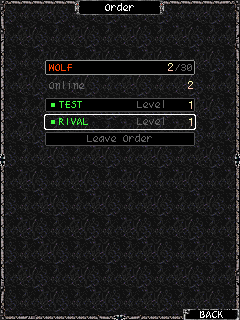
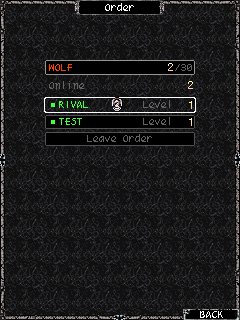
MP orders: leader emblem (the founder, then the oldest member)
Claude-Session: https://claude.ai/code/session_01Pra1epgAaSGGotKkAjmf4H

Changed region(s): [[0.175, 0.2812, 0.8167, 0.4062]]

diff --git a/pyport/pow_mp/mp_canvas_order.py b/pyport/pow_mp/mp_canvas_order.py
@@ -49,7 +49,7 @@ def install():
 
 class OrderMixin:
     order_name = ""             # "" = in no order
-    order_rows = []             # [(UserID, display name, level, online)]
+    order_rows = []             # [(UserID, display name, level, online, leader)]
     order_cursor = 0            # members then "Leave Order"
     order_top = 0               # first row shown
     order_creating = True       # 32: create (True) or join (False)
@@ -78,7 +78,8 @@ class OrderMixin:
             name = answer.read_string(8)
             level = answer.read_s16() & 0xFFFF
             online = answer.read_s8() != 0
-            rows.append((uid, name, level, online))
+            leader = answer.read_s8() != 0
+            rows.append((uid, name, level, online, leader))
         MpCanvas.order_rows = rows
         MpCanvas.order_count = count
         MpCanvas.order_cursor = min(MpCanvas.order_cursor, count)
@@ -146,12 +147,14 @@ class OrderMixin:
                 self.draw_text_colored(MpCanvas.screen_g, TEXTS[3], MpCanvas.center_x, y + 1, 1,
                                        0xFFFFFF if on else 0x646464)
                 continue
-            _uid, name, level, online = MpCanvas.order_rows[i]
+            _uid, name, level, online, leader = MpCanvas.order_rows[i]
             self.draw_box(MpCanvas.screen_g, x, y, 150, 14, 3 if on else 2)
             Draw.fill_rect(MpCanvas.screen_g, x + 6, y + 5, 4, 4, 0x41FF41 if online else 0x525152)
             color = 0x41FF41 if online else (0xFFFFFF if on else 0x646464)
             self.draw_text_colored(MpCanvas.screen_g, name, x + 14, y + 1, 0, color)
-            self.draw_text_colored(MpCanvas.screen_g, Consts.texts[27], x + 92, y + 1, 0, 0x646464)
+            if leader:                         # the leader's emblem: the bright shield of the menu dots
+                Draw.draw_image_part(MpCanvas.screen_g, MpCanvas.menu_icon_image, x + 66, y - 1, 12, 15, 0, 0)
+            self.draw_text_colored(MpCanvas.screen_g, Consts.texts[27], x + 98, y + 1, 0, 0x646464)
             MpCanvas.draw_number(MpCanvas.screen_g, x + 150 - 7, y + 3, level, 0)
         if MpCanvas.order_top > 0 or MpCanvas.order_top + VISIBLE_ROWS < items:
             self.draw_text_colored(MpCanvas.screen_g, "%d/%d" % (cur + 1, items), MpCanvas.center_x,

diff --git a/pyport/pow_server/orders.py b/pyport/pow_server/orders.py
@@ -1,9 +1,10 @@
 """PORT-EXTRA (asked by Andrey, plan item 22): orders of the online game.
 
-An order is a name and up to MAX_MEMBERS players. No ranks, no leader, nothing in the single
-player: create one, join one by its name, leave it, see who is in it and who is online, and
-invite a member to a mission (768 mode 2) or to a 2-on-2 duel on my side (768 mode 3,
-Session.on_invite). A player is in one order at most (Character.order).
+An order is a name and up to MAX_MEMBERS players, nothing in the single player: create one,
+join one by its name, leave it, see who is in it and who is online, and invite a member to a mission (768 mode 2) or to a 2-on-2 duel on my side (768 mode 3,
+Session.on_invite). A player is in one order at most (Character.order). No ranks; the leader
+(Andrey: an emblem for the leader) is only a mark, with no powers: the founder, then, when the
+leader leaves, the member who has been in the order longest (members[0]).
 
 Kept in the storage's JSON documents (Storage.live_get / live_put) under "order:<NAME>" =
 {"name": NAME, "members": [UserID, ...]} (oldest first). The last member to leave deletes
@@ -58,6 +59,11 @@ def leave(storage, name, uid):
         return
     doc["members"].remove(uid)
     storage.live_put(_key(name), doc)
+
+
+def leader(doc):
+    """UserID of the order's leader: the oldest member."""
+    return doc["members"][0] if doc and doc.get("members") else ""
 
 
 def same_order(storage, a, b):

diff --git a/pyport/tests/test_mp_orders.py b/pyport/tests/test_mp_orders.py
@@ -38,12 +38,16 @@ def test_create_join_list_and_leave(server):
     c.session.close()                                  # C is offline now
     info = b.ask(M.ORDER_INFO)
     assert info["name"] == "WOLVES"
-    assert [(r["id"], r["online"]) for r in info["rows"]] == [("BORYS", 1), ("ANDREY", 1), ("CYRIL", 0)]
+    assert [(r["id"], r["online"], r["leader"]) for r in info["rows"]] == [
+        ("ANDREY", 1, 1), ("BORYS", 1, 0), ("CYRIL", 0, 0)]             # the leader first
     assert info["rows"][0]["level"] == 1
     assert b.ask(M.ORDER_LEAVE)["st"] == 1
     assert b.ask(M.ORDER_INFO)["name"] == ""
     assert [r["id"] for r in a.ask(M.ORDER_INFO)["rows"]] == ["ANDREY", "CYRIL"]
     assert server.storage.load("BORYS").order == ""
+    a.ask(M.ORDER_LEAVE)                               # the leader leaves: the oldest member leads
+    rows = b.ask(M.ORDER_JOIN, name="WOLVES") and b.ask(M.ORDER_INFO)["rows"]
+    assert [(r["id"], r["leader"]) for r in rows] == [("CYRIL", 1), ("BORYS", 0)]
 
 
 def test_the_last_member_leaving_frees_the_name(server):

diff --git a/pyport/pow_server/messages.py b/pyport/pow_server/messages.py
@@ -244,9 +244,10 @@ S2C = {
     EXP_FAME_GOLD_ANS: (("exp", "i"), ("fame", "i"), ("gold", "i")),
     RANK_MINE_ANS: (("rank", "i"), ("value", "i")),
     RANK_LIST_ANS: (("n", "B"), ("rows", "list", "n", (("rank", "i"), ("id", 12), ("value", "i")))),
-    # PORT-EXTRA: name "" = in no order; rows: me first, then online, then the rest
+    # PORT-EXTRA: name "" = in no order; rows: the leader, me, who is online, the others
     ORDER_INFO_ANS: (("name", 12), ("n", "B"),
-                     ("rows", "list", "n", (("id", 12), ("name", 8), ("level", "H"), ("online", "B")))),
+                     ("rows", "list", "n", (("id", 12), ("name", 8), ("level", "H"), ("online", "B"),
+                                            ("leader", "B")))),
     ORDER_CREATE_ANS: (),
     ORDER_JOIN_ANS: (),
     ORDER_LEAVE_ANS: (),

diff --git a/pyport/pow_server/server.py b/pyport/pow_server/server.py
@@ -365,8 +365,10 @@ class Session:
                 continue
             s = online.get(uid)
             rows.append({"id": uid, "name": ch.name or uid[:8], "level": ch.level,
-                         "online": int(s is not None and not s.closed)})
-        rows.sort(key=lambda r: (r["id"] != self.user, not r["online"]))   # me, online, others
+                         "online": int(s is not None and not s.closed),
+                         "leader": int(uid == orders.leader(doc))})
+        # the leader, me, who is online, the others
+        rows.sort(key=lambda r: (not r["leader"], r["id"] != self.user, not r["online"]))
         self.send(M.ORDER_INFO_ANS, st=1, name=doc["name"], rows=rows[:orders.MAX_MEMBERS])
 
     def _order_enter(self, msg, answer, fn):

diff --git a/pyport/README.md b/pyport/README.md
@@ -519,9 +519,11 @@ python -m pow_server --no-server-bots             # без ботів серве
   а Solo Mission — одразу з CPU-союзником.
 - Орден (просив Andrey, пункт 22 плану; `pow_server/orders.py`, `pow_mp/mp_canvas_order.py`): лише в
   онлайні, в одиночній грі нічого не змінюється. Сьома картинка головного меню **Order**. Орден — це
-  назва (A–Z, 4–12 літер) і до 30 гравців; без рангів, лідера й вірності. Без ордену вікно пропонує
+  назва (A–Z, 4–12 літер) і до 30 гравців; без рангів і вірності. Лідер — лише позначка без прав
+  (емблема-щит з крапок меню біля імені, нагорі списку): засновник, а коли він виходить —
+  учасник із найбільшим стажем. Без ордену вікно пропонує
   Create Order / Join Order (назву вводять на сітці літер, як UserID). В ордені: назва й «N/30»,
-  скільки онлайн, список (я, далі хто в мережі, далі решта; зелена позначка = онлайн) і останній
+  скільки онлайн, список (лідер, я, далі хто в мережі, далі решта; зелена позначка = онлайн) і останній
   пункт Leave Order (з підтвердженням). Останній, хто вийшов, звільняє назву. На учасника FIRE →
   **Mission Together** (`768` режим 2, як Invite An Ally) або **2-on-2 Together** (`768` режим 3:
   ми вдвох у слотах 0 і 2 проти двох CPU-бійців, кожен приблизно рівня того, з ким стоїть; для
